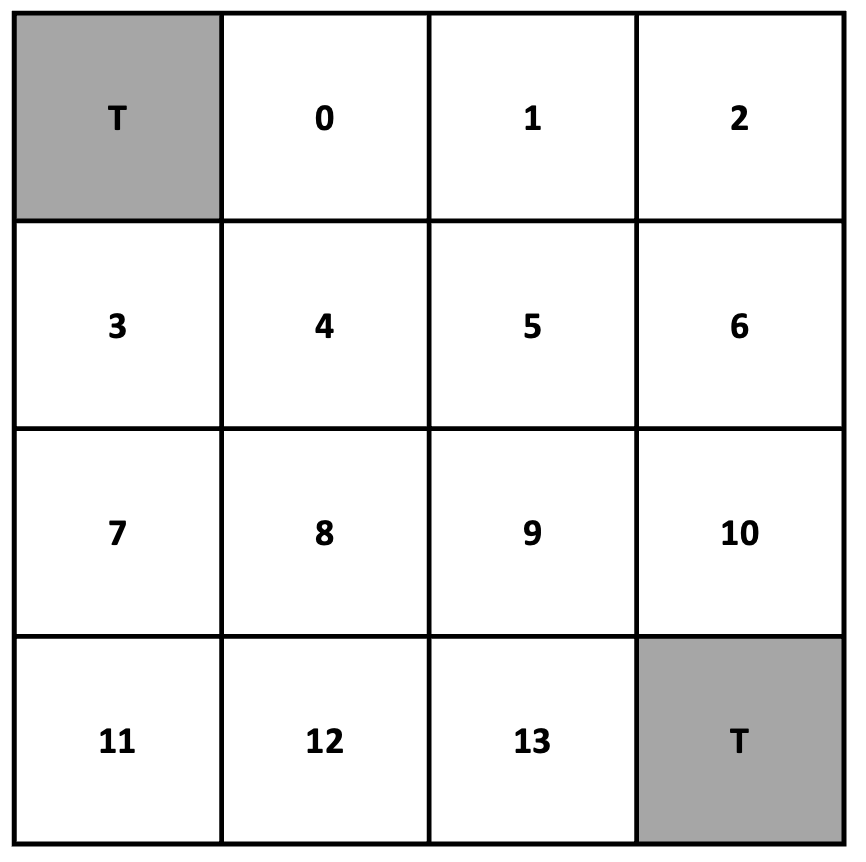
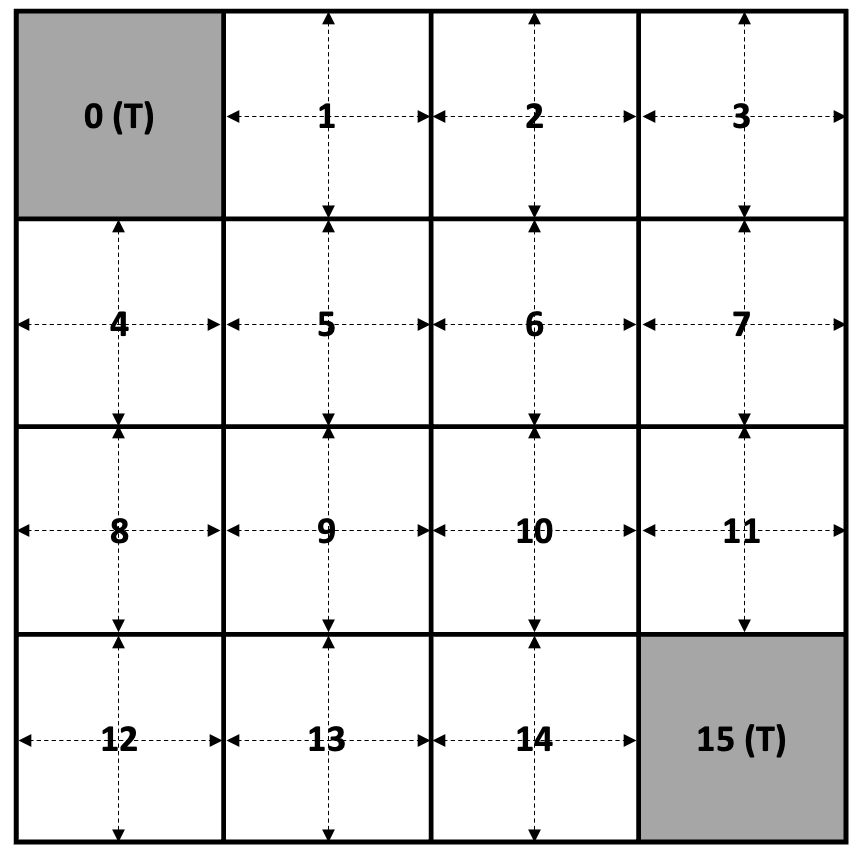
dp example

diff --git a/_posts/2023-05-14-dp-example.md b/_posts/2023-05-14-dp-example.md
@@ -10,9 +10,275 @@ comments: true
 ---
 
 ## Introduction
+
 본 포스팅에서는 Python 코드를 통해, Dynamic Programming (DP) 알고리즘을 구현하는 내용을 다룬다. 
-MDP 환경은 다음과 같은 4 X 4 Grid World 이다. 
+앞선 포스팅에서 다룬 [Policy Iteration](https://friendlyvillain.github.io/posts/dynamic-programming/#policy-iteration) 알고리즘을 이용하여 4X 4 Grid World에 대한 Value Function과 Optimal Policy를 도출한다.
+코드 구현을 위해 필요한 Python Package는 NumPy 이다. 
+
+
+## MDP Environment
+
+MDP 환경은 다음 그림과 같은 4 X 4 Grid World 이다. 
 
 ![gird-world-env](/assets/img/posts/dp_example/grid_world_env.png){: width="300" height="300" }
 _4X4 Grid World_
 
+위의 Grid World에서 Agent의 목표는 각 State에서 Terminal State로 이동하는 최적의 Policy를 찾는 것이다.
+
+### State
+
+총 0~15 까지 16개의 State가 있고, 0과 15는 Terminal State이다. 
+
+### Action
+
+Terminal State를 제외하고, 1~14의 State에서 다음과 같이 4가지 방향으로 이동하는 Action이 존재한다.
+
+- 0: Move Left
+- 1: Move Down
+- 2: Move Rigth
+- 3: Move Up
+
+만약 Action을 취하였을 때 다음 State가 Grid를 벗어나는 경우에는 다음 State와 현재 State는 동일하다. 
+
+### Reward
+
+State에서 Action을 취하였을 때, 다음 State가 Terminal일 경우에는 Reward는 $0$ 이고, 그 이외의 경우에 대한 Reward는 모두 $-1$ 이다.
+
+### MDP Dynamics (State Transition Probability)
+
+DP를 적용하기 위해서 Agent는 MDP의 Dynamics를 알고 있어야 한다. 
+4 X 4 Grid World에서는 취하는 Action에 따라 State Transition이 **Deterministic** 하다. 
+예를 들어, State 1 에서의 State-transition probability는 다음과 같다. 
+
+
+$$ p(s'=0, r=0 | s=1, a=0) = 1 $$
+
+$$ p(s'=5, r=-1 | s=1, a=1) = 1 $$
+
+$$ p(s'=2, r=-1 | s=1, a=2) = 1 $$
+
+$$ p(s'=1, r=-1 | s=1, a=3) = 1 $$
+
+
+만약, Model-Free 환경일 경우에는 Agent는 Action에 따른 State Transition이 **Non-Deterministic** 하기 때문에 위와 같이 State Transition Probability로 표현할 수 없다.
+예를 들면, 위의 예시에서 Model-Free 환경에서는 State 1에서 action 0을 취했을 경우에 다음 State가 반드시 0이라는 보장을 할 수 없고, 그 확률 또한 알 수 없다.
+Model-Free한 환경에 대한 알고리즘은 후술할 Monte Carlo 기법과 관련된 포스팅에서 더 자세히 다룬다. 
+
+
+## Implementation
+
+```python
+import numpy as np
+import copy
+
+'''
+Dynamic Programming (Policy Iteration) for 4 X 4 Grid World
+
+=====State Table=====
+
+0(T) 1    2     3
+4    5    6     7
+8    9    10    11
+12   13   14    15(T)
+
+=====================
+
+====Action===
+
+0: Move left
+1: Move down
+2: Move right
+3: Move up
+
+=============
+'''
+class Grid_Env():
+    def __init__(self, num_states, grid_width=4, grid_height=4, discount=0.9):
+        super().__init__()
+        self.num_states = num_states
+        self.grid_width = grid_width
+        self.grid_height = grid_height
+        self.discount = discount
+
+        self.terminal = [0, self.num_states - 1] # Terminal state
+
+        self.num_actions = 4
+        self.action_move = [(0, -1), (1, 0), (0, 1), (-1, 0)]  # left, down, right, up
+
+        self.value_table = np.zeros([self.num_states], dtype=float)
+        self.policy = np.zeros([self.num_states], dtype=int)
+
+        self._initialize()
+
+    def _initialize(self):
+        self.value_table = np.random.uniform(0, 1, self.num_states)
+
+        self.policy = np.random.randint(self.num_actions, size=self.num_states)
+        self.policy[0] = -1
+        self.policy[-1] = -1
+
+        print("Initial value table: \n {}".format(self.value_table.reshape(self.grid_height, -1)))
+        print("Initial policy: \n {}".format(self.policy.reshape(self.grid_height, -1)))
+
+    def get_state(self, state, action):
+        is_terminal = False
+
+        state_row = state // self.grid_width
+        state_col = state % self.grid_width
+
+        next_state_row = state_row + self.action_move[action][0]
+        next_state_col = state_col + self.action_move[action][1]
+
+        if next_state_row < 0:
+            next_state_row = 0
+        elif next_state_row > self.grid_height - 1:
+            next_state_row = self.grid_height - 1
+
+        if next_state_col < 0:
+            next_state_col = 0
+        elif next_state_col > self.grid_width - 1:
+            next_state_col = self.grid_width - 1
+
+        next_state = next_state_row * self.grid_width + next_state_col
+
+        if next_state in self.terminal:
+            is_terminal = True
+
+        if is_terminal:
+            reward = 0
+        else:
+            reward = -1
+
+        return next_state, reward, is_terminal
+
+    def cal_action_value(self, state):
+        action_value = np.array([0, 0, 0, 0], dtype=float)
+        for act in range(self.num_actions):  # left, right, up, down
+            next_state, _, _ = self.get_state(state, act)
+            action_value[act] = self.value_table[next_state]
+
+        return action_value
+
+    def policy_evaluation(self):
+        value_table_mem = copy.deepcopy(self.value_table)
+        iter_cnt = 0
+
+        # Policy iteration until value table converges (small delta)
+        while True:
+            iter_cnt = iter_cnt + 1
+
+            for state in range(self.num_states):
+                if state not in self.terminal:
+                    next_state, reward, is_terminal = self.get_state(state, self.policy[state].item())
+                    value = reward + self.discount * self.value_table[next_state]
+                    value_table_mem[state] = round(value, 3)
+
+            delta = np.linalg.norm(self.value_table - value_table_mem)
+            self.value_table = copy.deepcopy(value_table_mem)  # Update value table memory
+
+            if delta < 0.1:
+                print("Iteration for value table: {}, Value Table: \n {}, \n delta: {:.2f}"
+                      .format(iter_cnt, self.value_table.reshape(self.grid_height, -1), delta))
+                break
+
+
+    def policy_improvement(self):
+        stable = True
+
+        for state in range(self.num_states):
+            if state not in self.terminal:
+                old_policy = self.policy[state]
+                action_value = self.cal_action_value(state)
+                greedy_action = np.argmax(action_value)
+
+                # If greedy action is different from the old policy, policy is not stable
+                if greedy_action != old_policy:
+                    stable = False
+                    self.policy[state] = greedy_action  # Policy update (improvement)
+
+        if stable:
+            print("Policy is optimal")
+
+        return stable
+
+    def policy_mapping(self):
+        policy_map = np.empty([self.num_states, 1], dtype=str)
+
+        for state in range(self.num_states):
+            if state not in self.terminal:
+                if self.policy[state] == 0:
+                    policy_map[state] = 'L'
+                elif self.policy[state] == 1:
+                    policy_map[state] = 'D'
+                elif self.policy[state] == 2:
+                    policy_map[state] = 'R'
+                elif self.policy[state] == 3:
+                    policy_map[state] = 'U'
+            else:
+                policy_map[state] = 'T'
+
+        return policy_map.reshape(self.grid_height, -1)
+
+def run_dp():
+    env = Grid_Env(num_states=16)
+    iter_cnt = 0
+
+    while True:
+        iter_cnt = iter_cnt + 1
+        env.policy_evaluation()
+        is_stable = env.policy_improvement()
+
+        print("Policy iteration: {}, Value Table: \n {}".format(iter_cnt, env.value_table.reshape(4, -1)))
+        print("Policy iteration: {}, Policy: \n {}".format(iter_cnt, env.policy.reshape(4, -1)))
+
+        if is_stable:
+            policy_map = env.policy_mapping()
+            print("Final Policy: \n {}".format(policy_map))
+            break
+
+    return env
+
+if __name__ == "__main__":
+    env = run_dp()
+  ``` 
+
+### 코드 설명
+
+Grid_Env 클래스를 정의하고, inital policy와 inital value table을 초기화 한다. 
+Grid_Env 클래스의 주요 methods는 다음과 같다. 
+
+- get_state()
+
+현재 state와 action을 받아 다음 state와 reward, terminal state indicator를 리턴한다. 
+
+- policy_evaluation()
+
+현재 policy에 대한 무한 loop를 통해서 value table을 계산하여 update 한다.
+이전에 계산된 value table과 현재의 value_table 계산 결과를 비교하여 충분히 작은 값일 경우, 무한 loop를 종료한다. 
+
+- policy_improvement()
+
+Value table 결과를 바탕으로 모든 state에서 greedy action 기반으로 policy를 update 한다.
+Policy Update를 모두 수행한 이후, environment의 policy에 대한 stable 여부를 리턴한다.
+(Old Policy == Greedy Policy 일 경우에만 True 리턴)
+
+### 코드 실행 결과
+
+초기화된 initial policy와 initial value table에 따라 소요되는 policy iteration 횟수에 차이가 있으나 대략 3~4번의 policy iteration으로 optimal policy에 수렴한다. 
+각 State에서 도출되는 optimal policy는 다음과 같다.
+
+```
+Final Policy: 
+ [['T' 'L' 'L' 'L']
+ ['U' 'L' 'L' 'D']
+ ['U' 'L' 'D' 'D']
+ ['U' 'R' 'R' 'T']]
+```
+
+Optimal Policy 결과를 확인하면 직관적으로 Terminal State 에 가장 빨리 도달할 수 있는 Action을 취하는 것을 확인할 수 있으며, 일부 State에 대해서는 Multiple Action이 Optimal Policy가 될 수 있지만 편의상 L > D > R > U 순으로 Action에 대한 우선 순위를 두어 1개의 Action만 취하도록 하였다. 
+
+## Conclusion
+본 포스팅에서는 Policy Iteration 에 대한 Pseudo Code를 간단한 Grid World 환경에 대한 Example을 통해 Python을 이용하여 구현하였다.
+DP는 Agent가 Model을 정확히 알고 있어야 적용할 수 있다는 한계가 있고, 실제로 접하게 되는 대다수의 RL 문제에서는 MDP의 Dynamics를 알지 못한다.
+MDP의 Dynamics를 알지 못하는 경우 DP를 적용하지 못하더라도 DP에서 사용한 개념은 Model-Free한 MDP를 풀기 위한 토대가 된다. 
+다음 포스팅 부터는 Model Free 한 환경에서 MDP를 풀기 위한 방법에 대해 다룬다. 
